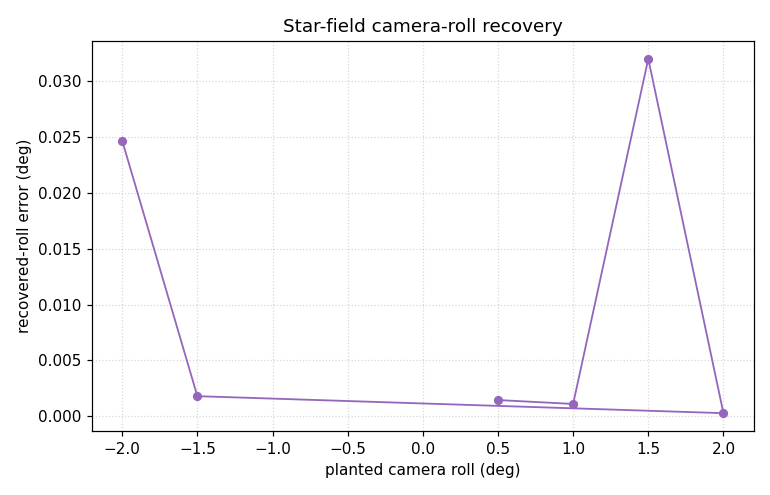
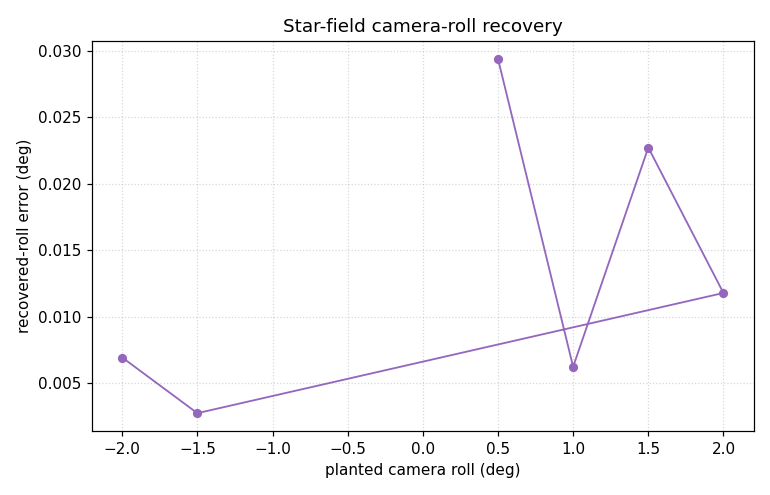
docs: unify invariant offsets, refresh report numbers, add plan handoff
Plant one common off-grid offset (1.43, -0.61) px in every fixed
algorithmic-invariant scene (was a different value per scene), so the
per-technique recovery errors are at one common sub-pixel phase and directly
comparable. Re-bless the affected sim baselines and regenerate the sweep figures.

Refresh the simulator report to the regenerated numbers (disc/blob ~0.006 px
sweep median; ring ~0.034 px and limb ~0.092 px distance-transform residuals at
the unified cross-axis; the planted-recovery table at the common offset). Update
the body-limb developer guide's DT bias-floor figure to match (~0.1 px, up to
~0.25 px at the worst phase). Model the off-grid convention in the simulated-image
user guide (round offsets belong only in sweeps).

Add a session-handoff status board to SIM_IMPROVEMENT_PLAN.md (section 0): the
B/G/T phase status, the navigation-accuracy track completed alongside (star gate,
star PSF refinement, disc band-limit, off-grid offsets, characterization), the
report/dev-guide documentation split, and the next three steps in order (sim
instrument config inherit/override/self-specify; staged limb/ring gradient-field
refine; prior-aware large-offset refinement).

diff --git a/plans/SIM_IMPROVEMENT_PLAN.md b/plans/SIM_IMPROVEMENT_PLAN.md
@@ -33,6 +33,100 @@ the implementer batch them.
 
 ---
 
+## 0. Current status and next steps (session handoff)
+
+This section is the live status board; the phase sections below are the durable
+plan. A new contributor should read this first, then the phase it points to.
+
+### 0.1 Plan-phase status
+
+- **Backend:** B0 (determinism), B1 (noise), B2 (per-instrument coupling),
+  B4 (saturation), B5 (PSF), B6 (stray light) are **done**. B7 (irregular bodies)
+  is **partially done** (procedural mesh render + navigator prediction +
+  end-to-end navigation; remaining: mesh-vs-ellipsoid pose scenarios, named
+  meshes). B3 (smear) is **postponed** on upstream `psfmodel`; B8 (diffraction)
+  is **dropped**.
+- **GUI:** G0, G1, G2, G4, G5, G6, G7, G8 are **done**. G3 (smear) is postponed
+  with B3.
+- **Test layer:** T1 (scene catalog), T2 (regression baselines), T3 (sweeps) are
+  **done**. T4 (algorithmic invariants) is **substantially done** -- disc, blob,
+  limb, ring edge, star field, and camera roll all navigate from catalog scenes
+  and recover planted transforms; remaining are the `StarUniqueMatchNav` one-star
+  and `StarRefineNav` prior-refinement technique-pinned cases. T5 (alpha
+  bootstrap), T6 (real-vs-sim diagnostics), T7 (calibration validation) are
+  **not started** and depend on the real-data Phase 10 calibration.
+
+### 0.2 Navigation-accuracy work completed alongside the plan
+
+A separate track of navigation/accuracy fixes was driven by the T3 sweeps and the
+per-technique characterization (`docs/simulator_report/`). Completed:
+
+1. **Star reliability gate** -- the star model no longer gates a star on the
+   saturation / cosmic-ray mask at its predicted position (a star's predicted
+   pixel is not special, and a sharp peak self-flags as a cosmic ray); gating is
+   occlusion-only. See `dev_guide_techniques_star_field` and the star model
+   chapters.
+2. **Star PSF-fit refinement (SNR-adaptive)** -- after the RANSAC match,
+   `StarFieldFromCatalogNav` re-centroids each matched inlier with a
+   maximum-likelihood PSF fit when the star is faint and keeps the
+   brightness-weighted moment when it is bright (the moment beats the PSF fit's
+   sub-pixel-phase bias floor above a configurable integrated-SNR ceiling,
+   `psf_refine_snr_max`). Dim-field offset error dropped ~0.05 -> ~0.025 px,
+   bright field ~0.005 px.
+3. **Disc correlator sub-pixel band-limit** -- `evaluate_candidate` low-passes both
+   refine surfaces before the cross-power (`refine_lowpass_sigma_px`, default
+   1.0 px), removing a sharp-edge aliasing S-curve (~0.03 px, up to ~0.1 px at the
+   worst 2-D phase). See `dev_guide_techniques_body_disc`.
+4. **Off-grid invariant offsets** -- every fixed algorithmic-invariant scene plants
+   one common off-grid offset `(1.43, -0.61)` px (sweeps keep round grids), so a
+   technique cannot land on a sub-pixel-bias null; the per-scene errors are at one
+   phase and directly comparable.
+5. **Per-technique characterization** -- `technique_snr_characterization.py` and
+   `star_snr_characterization.py` (runner-only) sweep SNR and injected offset
+   across backgrounds and emit the report figures.
+
+**Documentation split (cardinal):** the simulator report
+(`docs/simulator_report/`) is *ephemeral* -- current statistics, figures, and
+conclusions only, no decisions or change history. All mechanisms, decisions,
+rejected alternatives, and "what breaks if you don't" live in the **developer
+guide** (`docs/dev_guide/`). Keep new findings on that split.
+
+### 0.3 Next steps, in order
+
+The next three navigation/sim improvements, highest priority first:
+
+1. **Sim instrument config: inherit / override / fully self-specify.** Today a sim
+   scene's physical parameters are resolved from a referenced instrument's config
+   (B2). Extend this so a scene may (a) inherit from an instrument, (b) inherit but
+   override individual parameters, or (c) specify everything with no instrument
+   reference at all. The goal is to lock a scene's behavior so that a later change
+   to a real camera's config cannot silently shift existing sim tests/results. This
+   is the resolution of open question 2 (section 12) and an extension of B2; touch
+   `resolve_sim_inst_config` in `src/nav/sim/instruments.py`, the scene schema in
+   `src/nav/sim/scene.py`, and the GUI instrument control.
+2. **Staged limb / ring sub-pixel refine against the continuous gradient field.**
+   The limb (~0.135 px) and ring (~0.05 px) distance-transform techniques carry an
+   SNR-independent sub-pixel-phase bias floor from the integer-quantized DT. Keep
+   the DT/NCC coarse acquisition, then refine the final offset against the
+   *continuous* gradient field (sub-pixel, un-quantized). See the mechanism note in
+   `dev_guide_techniques_body_limb`; the ring shares it via `dt_fitting`.
+3. **Prior-aware large-offset refinement with graceful fallback.** For blob / limb /
+   ring, use a pass-1 prior to seed a larger-offset refinement, with graceful
+   fallback to the current prior-free behavior when there is no prior or the prior
+   is bad. Validate only with simulated images (a real image's true offset is
+   unknown).
+
+**Validation discipline (carried throughout):** validate accuracy changes only with
+simulated images; use ensemble statistics across seeds and offsets, not single
+scenes; keep the full sweep out of the normal pytest run; guard found defects with
+fast bug-specific regression scenes. The worktree has its own `.venv` -- run
+`/seti/newnav/rms-nav-sim/.venv/bin/python` and, for the `tests.*` runners,
+`PYTHONPATH=/seti/newnav/rms-nav-sim`. Integration tests and real-image
+re-blessing need the holdings env vars (`OOPS_RESOURCES`, `PDS3_HOLDINGS_DIR`,
+`PDS4_HOLDINGS_DIR`, `UCAC4_PATH`, `YBSC_PATH`).
+
+---
+
 ## 1. Context and problem statement
 
 ### 1.1 What this plan is for

diff --git a/docs/simulator_report/simulator_report.rst b/docs/simulator_report/simulator_report.rst
@@ -155,23 +155,23 @@ ensemble for the disc and star scenes.
      - Error
    * - ``planted_offset_disc``
      - BodyDiscCorrelateNav
-     - (3.37, -1.83) px
-     - (3.36, -1.84) px
-     - 0.01 px
+     - (1.43, -0.61) px
+     - (1.50, -0.60) px
+     - 0.07 px
    * - ``planted_offset_irregular``
      - BodyDiscCorrelateNav (mesh)
-     - (2.13, 1.37) px
-     - (2.12, 1.36) px
+     - (1.43, -0.61) px
+     - (1.43, -0.62) px
      - 0.01 px
    * - ``planted_offset_blob``
      - BodyBlobNav
-     - (1.23, -0.58) px
-     - (1.22, -0.59) px
-     - 0.01 px
+     - (1.43, -0.61) px
+     - (1.42, -0.62) px
+     - 0.02 px
    * - ``planted_offset_blob_crescent``
      - BodyBlobNav (120 deg)
-     - (1.37, -0.41) px
-     - (1.19, -0.34) px
+     - (1.43, -0.61) px
+     - (1.24, -0.59) px
      - 0.19 px
    * - ``planted_offset_star_field``
      - StarField + UniqueMatch + Refine
@@ -180,31 +180,34 @@ ensemble for the disc and star scenes.
      - 0.12 px
    * - ``planted_offset_limb``
      - BodyLimbNav
-     - (1.61, -0.43) px
-     - (1.77, -0.22) px
-     - 0.27 px
+     - (1.43, -0.61) px
+     - (1.40, -0.66) px
+     - 0.06 px
    * - ``planted_offset_ring``
      - RingEdgeNav
-     - (1.29, -0.67) px
-     - (1.25, -0.72) px
-     - 0.06 px
+     - (1.43, -0.61) px
+     - (1.42, -0.62) px
+     - 0.01 px
    * - ``planted_rotation_star_field``
      - StarFieldFromCatalogNav (roll)
-     - 1.37 deg
-     - 1.364 deg
-     - 0.006 deg
+     - (1.43, -0.61) px, 1.37 deg
+     - 1.356 deg
+     - 0.01 deg
 
 Observations:
 
-* Every technique recovers its planted transform well within the 1.0 px (and
-  third-of-a-degree) invariant bound at this off-grid phase.
-* The disc, mesh-body disc, and blob recover to ~0.01 px; the ring edge to
-  ~0.06 px; the fused star field to ~0.12 px; the limb to ~0.27 px at this phase.
+* All scenes plant the **same** off-grid offset ``(1.43, -0.61)`` px, so the
+  per-technique errors are at one common sub-pixel phase and directly comparable.
+  Every technique recovers well within the 1.0 px (and third-of-a-degree) bound.
+* At this phase the mesh disc and ring edge recover to ~0.01 px, the blob to
+  ~0.02 px, the limb to ~0.06 px, and the disc to ~0.07 px; the fused star field
+  to ~0.12 px.
 * The high-phase blob crescent (~0.19 px at 120 deg) is the hardest case: only a
   thin lit crescent constrains the centroid. It still recovers sub-pixel.
-* These are single off-grid samples, so they sit above the multi-offset medians in
-  the offset-accuracy section (e.g. the limb's ~0.13 px sweep median versus
-  ~0.27 px here); the table is a correctness check, not the precision benchmark.
+* These are single-phase samples, so a given technique can sit above or below its
+  multi-offset median in the offset-accuracy section (e.g. the disc's ~0.07 px here
+  versus its ~0.006 px sweep median); the table is a same-phase comparison and a
+  correctness check, not the precision benchmark.
 
 Single-variable sensitivity
 ===========================
@@ -385,7 +388,7 @@ swept across the dense sub-pixel set and the wide range described under
 
    Recovered-offset error (log scale) vs planted sub-pixel offset, each technique
    pinned. The disc, blob, and star field sit at or below a few hundredths of a
-   pixel; the ring edge (~0.05 px) and the limb (~0.135 px) hold distance-transform
+   pixel; the ring edge (~0.03 px) and the limb (~0.09 px) hold distance-transform
    residuals.
 
 .. list-table:: Sub-pixel recovery error (px) over the dense fractional sweep
@@ -401,13 +404,13 @@ swept across the dense sub-pixel set and the wide range described under
      - 0.006
      - 0.050
    * - BodyLimbNav
-     - 0.025
-     - 0.135
-     - 0.250
+     - 0.022
+     - 0.092
+     - 0.165
    * - RingEdgeNav
      - 0.003
-     - 0.053
-     - 0.099
+     - 0.034
+     - 0.069
    * - BodyBlobNav
      - 0.002
      - 0.006
@@ -427,7 +430,7 @@ pixel; the distance-transform techniques carry a larger sub-pixel residual:
 - **Disc and blob recover to <0.01 px** (median 0.006), and the bright star field
   to ~0.005 px -- the most accurate. A zero shift between identical frames recovers
   the disc exactly at ``(0, 0)``.
-- **The ring edge holds a ~0.05 px residual** and **the limb a ~0.135 px residual**
+- **The ring edge holds a ~0.03 px residual** and **the limb a ~0.09 px residual**
   across the dense sweep, both distance-transform effects that vary with the
   sub-pixel phase; they stay well inside the invariant bound. See
   :doc:`/dev_guide/dev_guide_techniques_body_limb` for the mechanism.

diff --git a/docs/user_guide/user_guide_simulated_images.rst b/docs/user_guide/user_guide_simulated_images.rst
@@ -94,8 +94,8 @@ declares the planted offset and roll under ``ground_truth``:
      poisson: true
      read_noise_dn: 4.0
    ground_truth:
-     planted_offset_dv_px: 1.5
-     planted_offset_du_px: -0.5
+     planted_offset_dv_px: 1.43
+     planted_offset_du_px: -0.61
      planted_rotation_deg: 0.0
 
 Key scene fields:
@@ -113,7 +113,10 @@ Key scene fields:
   rotation by default, so a clean-PSF camera can exercise the 3-DoF path.
 * ``ground_truth.planted_offset_dv_px`` / ``planted_offset_du_px`` -- the
   translation the renderer applies; the navigator predicts the unshifted
-  geometry and must recover it.
+  geometry and must recover it. For a fixed scene, prefer an off-grid value (not
+  an integer, half-, or quarter-pixel offset): a round offset can sit on a
+  technique's sub-pixel-bias null and report a flatteringly small error. Round
+  values belong only in parameter sweeps, which traverse a grid.
 * ``ground_truth.planted_rotation_deg`` -- a camera roll about the boresight,
   applied to stars and bodies before the translation.
 

diff --git a/docs/dev_guide/dev_guide_techniques_body_limb.rst b/docs/dev_guide/dev_guide_techniques_body_limb.rst
@@ -103,8 +103,9 @@ it does not capture systematic biases (e.g. an inflation of the per-vertex sigma
 unmodelled crater roughness) and it does not capture model-side uncertainty in the SPICE
 prediction itself (the search-window margin is what bounds that).
 
-One such systematic is a **sub-pixel-phase bias floor of ~0.13-0.15 px** in the recovered
-offset. It is *independent of SNR* (it persists on a clean, high-signal frame), so it is not
+One such systematic is a **sub-pixel-phase bias floor of ~0.1 px** in the recovered offset
+(median ~0.09-0.14 px over a dense sub-pixel sweep depending on the cross-axis phase, up to
+~0.25 px at the worst two-axis phase). It is *independent of SNR* (it persists on a clean, high-signal frame), so it is not
 a noise effect: it arises because the image-edge distance transform is built from a binary
 thresholded-and-NMS'd edge mask and is then integer-quantized before bilinear sampling, so the
 distance field the Levenberg-Marquardt fit minimizes against is itself quantized at the
